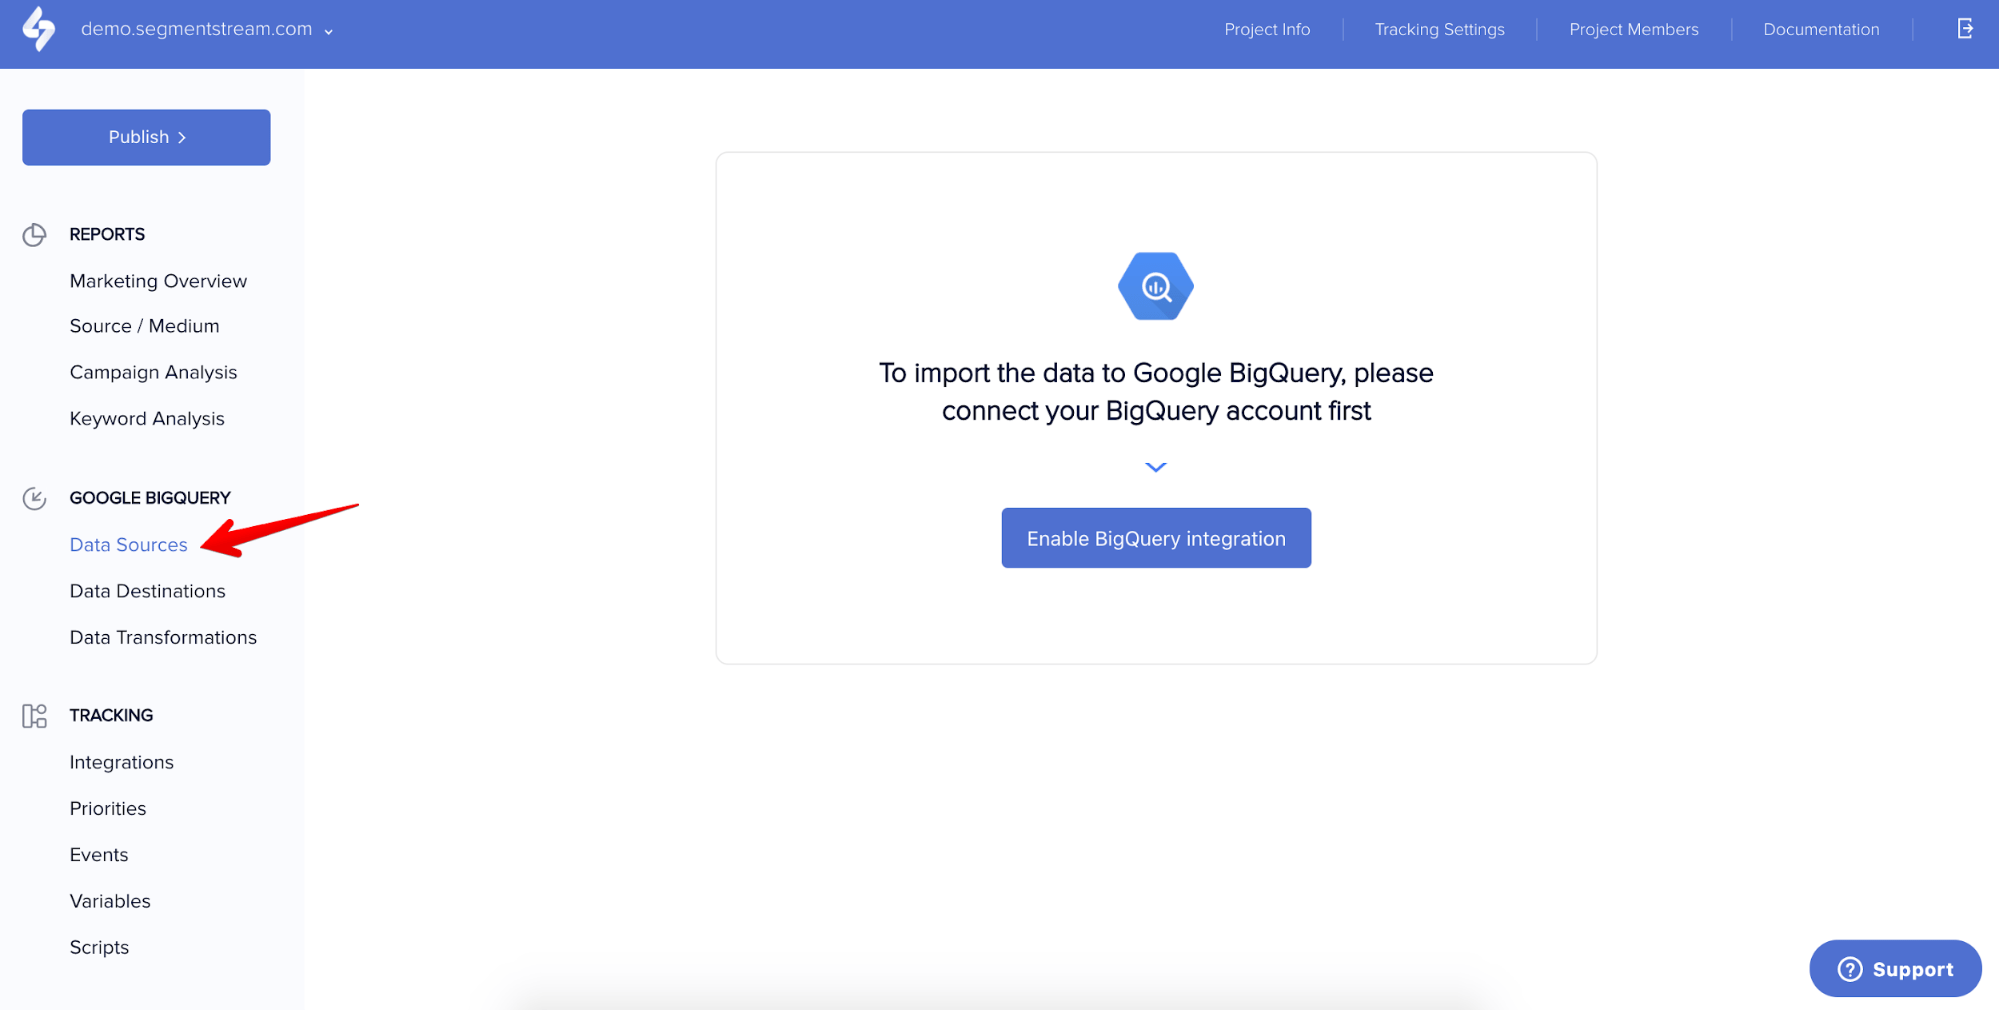
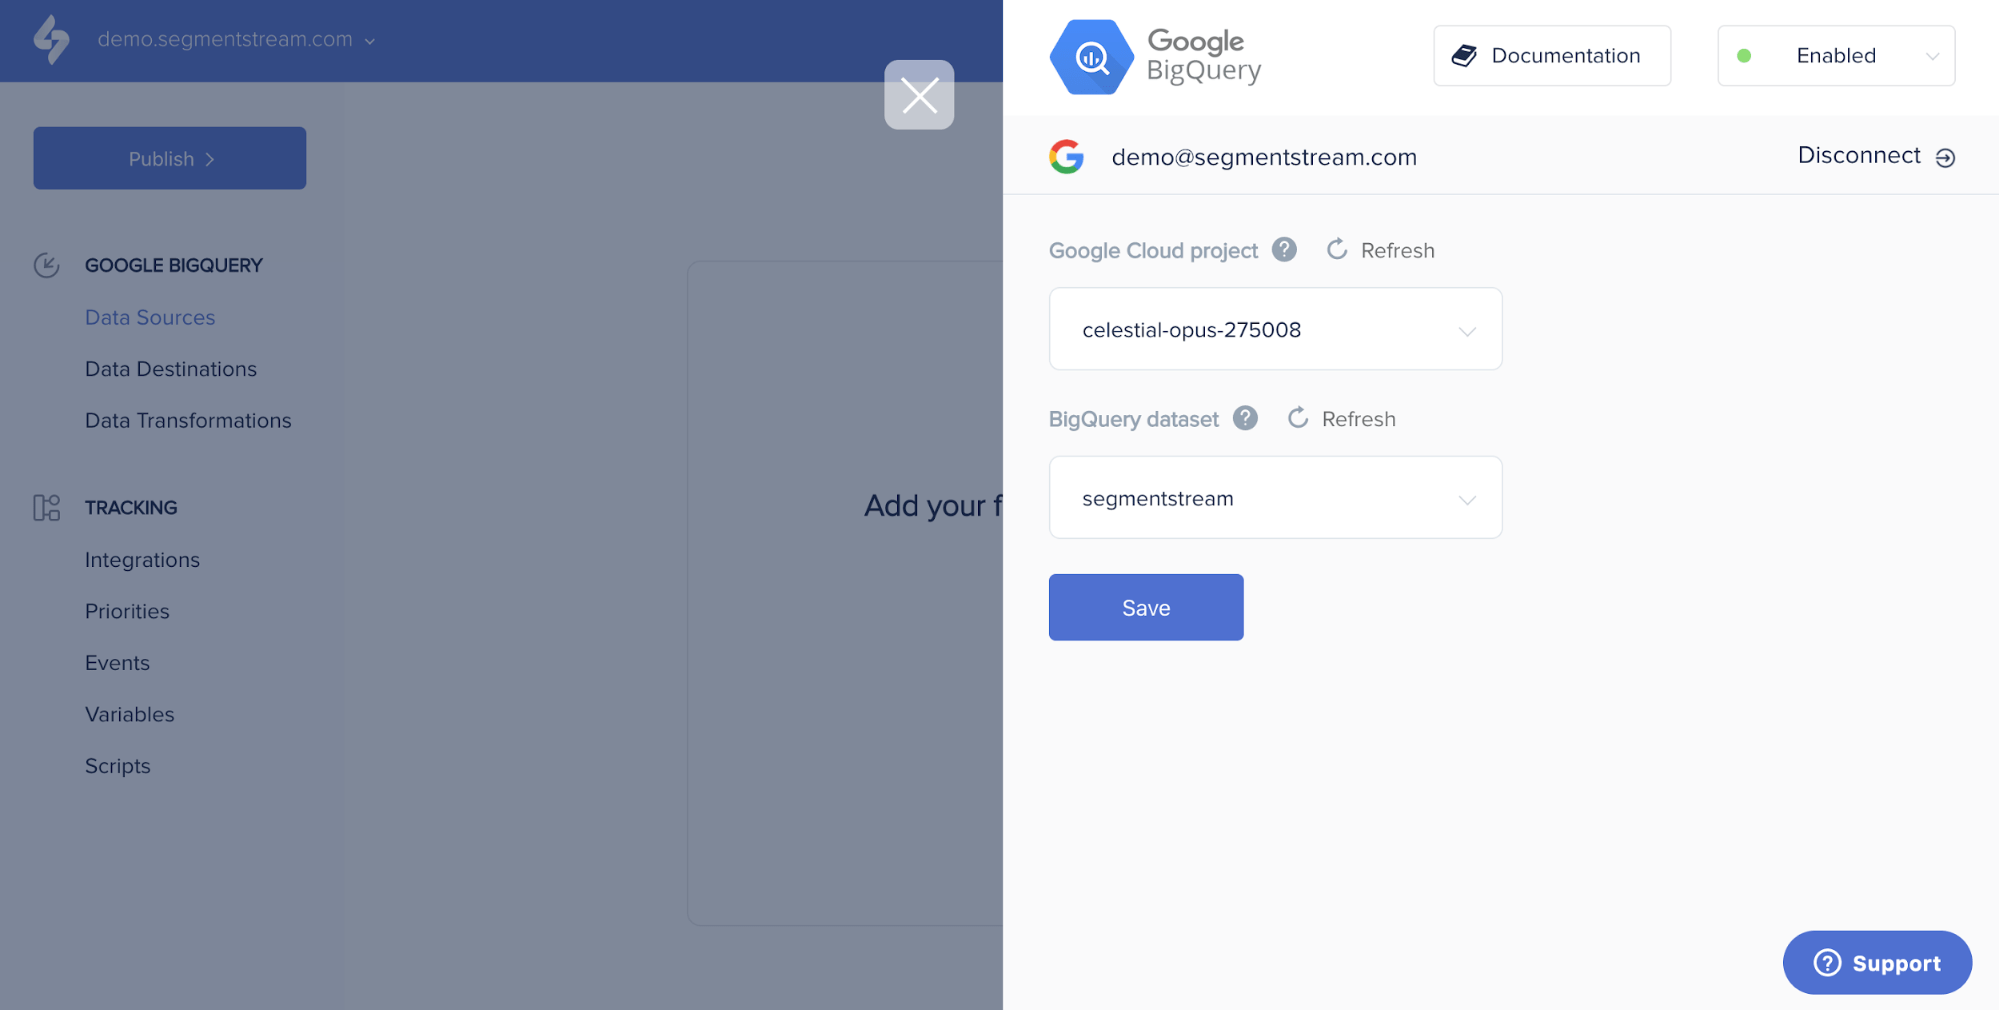
made fixes for bigquery guide

diff --git a/_docs/bigquery/enabling-bigquery-api.md b/_docs/bigquery/enabling-bigquery-api.md
@@ -11,24 +11,30 @@ date: 2020-04-29
 In this article explained how to Enable BigQuery API if it is not enabled
 -->
 <ul class="page-navigation">
-  <li><a href="#enabling-bigquery">Enabling BigQuery API</a></li>
+  <li><a href="#before-you-begin">Before you begin</a></li>
+  <li><a href="#enabling-bigquery">Steps to enable BigQuery API</a></li>
   <li><a href="#whats-next">What's next</a></li>
 </ul>
+
+## <a name="before-you-begin"></a> Before you begin
+* You should have an existing [Google Cloud Platform account](creating-gcp-account).
+* You should have [enabled billing for your GCP account](enabling-billing).
+
 To start working with Google BigQuery firstly, you need to enable BigQuery API.
 Below are the steps that explain how to do this.
 
-## <a name="enabling-bigquery"></a> Enabling BigQuery API
+## <a name="enabling-bigquery"></a> Steps to enable BigQuery API
 1. Go to the [Google Cloud Platform Console](https://console.cloud.google.com/){:target="_blank"}.
-2. Open the console left side menu and click APIs & Services. Select Dashboard from the list.
+2. Open the console left side menu and click **APIs & Services**. Select **Dashboard** from the list.
 ![Click on APIs & Services](/img/bigquery_api.1.png)
 
-3. On the top click + ENABLE APIS AND SERVICES
+3. On the top click **+ ENABLE APIS AND SERVICES**.
 ![Enable APIs and Services](/img/bigquery_api.2.png)
 
-4. Enter "BigQuery" in a search field and select BigQuery API from the list.
+4. Enter "BigQuery" in a search field and select **BigQuery API** from the list.
 ![Select BigQuery API](/img/bigquery_api.3.png)
 
-5. Click ENABLE to enable BigQuery API.
+5. Click **ENABLE** to enable BigQuery API.
 ![Enable BigQuery API](/img/bigquery_api.4.png)
 
 ## <a name="whats-next"></a>What's next

diff --git a/_docs/bigquery/connecting-bigquery.md b/_docs/bigquery/connecting-bigquery.md
@@ -11,14 +11,12 @@ date: 2020-04-29
 In this article we explain how to connect Google BigQuery inside the admin panel
 -->
 Complete the following steps to connect BigQuery to SegmentStream:
-1. Go the [SegmentStream admin page](https://admin.segmentstream.com/).
-2. Choose Data Sources in the navigation column:
+1. Go the [SegmentStream admin panel](https://admin.segmentstream.com/).
+2. Click **Enable BigQuery integration**.
+3. Click **Authenticate with Google** and log in with your Google account that has a Google Cloud Platform account associated with it.
+4. In the **Google Cloud project** dropdown select project that contains the dataset that you want to use with SegmentStream.
+5. In the **BigQuery dataset** dropdown select the dataset that you will use:
 ![](/img/bigquery_connect.1.png)
-3. Click **Enable BigQuery integration** button.
-4. Click **Authenticate with Google** and log in with your Google account that has a Google Cloud Platform account associated with it.
-5. In the **Google Cloud Project** dropdown select project that contains the dataset that you want to use with SegmentStream
-6. In the **BigQuery dataset** dropdown select the dataset that you will use:
-![](/img/bigquery_connect.2.png)
-7. Click **Save**
+6. Click **Save**.
 
 Now you've connected BigQuery to SegmentStream.

diff --git a/_docs/bigquery/creating-gcp-account.md b/_docs/bigquery/creating-gcp-account.md
@@ -21,15 +21,15 @@ BigQuery is a part of Google Cloud Platform.
 To use BigQuery you need to have a Google Cloud Platform account.
 
 ## <a name="before-you-begin"></a> Before you begin
-You should have an existing [Google account](https://support.google.com/accounts/answer/27441)
+You should have an existing [Google account](https://support.google.com/accounts/answer/27441).
 
 ## <a name="creating-gcp-project"></a> Creating Google Cloud Platform account
 1. Navigate to the [Google Cloud Platform page ▸](https://cloud.google.com)
 
-2. Choose “Get started for free”
+2. Choose **Get started for free**.
 ![Click on Get started for free](/img/big-query_start.png)
  
-3. Log in to your Google Account
+3. Log in to your Google Account.
 
 4. Fill in the registration form.
 Provide valid payment details - it’s important, as you need an account with an active payment method to use BigQuery with SegmentStream.

diff --git a/_docs/bigquery/creating-bigquery-dataset.md b/_docs/bigquery/creating-bigquery-dataset.md
@@ -14,8 +14,9 @@ In this article explained how to create Google BigQuery dataset
   <li><a href="#creating-dataset">Creating dataset</a></li>
   <li><a href="#whats-next">What's next</a></li>
 </ul>
-To make Google BigQuery ready for work you need to create a [dataset](https://cloud.google.com/bigquery/docs/datasets-intro){:target="_blank"} which SegmentssStream will use to store imported data.
+To make Google BigQuery ready for work you need to create a [dataset](https://cloud.google.com/bigquery/docs/datasets-intro){:target="_blank"} which SegmentsStream will use to store imported data.
 Below are the steps that explain how to do this.
+
 ## <a name="creating-dataset"></a>Creating dataset
 1. Go to the [Google Cloud Platform Console](https://console.cloud.google.com/){:target="_blank"}.
 2. Open the console left side menu and click **BigQuery**.

diff --git a/_docs/bigquery/enabling-billing.md b/_docs/bigquery/enabling-billing.md
@@ -26,7 +26,7 @@ To use BigQuery with SegmentStream you need an active billing account so that yo
 > Free Tier Google Cloud accounts don’t support some BigQuery services which are required for SegmentStream Data Import.
 
 ## Upgrading Free Tier account
-On the [main page of Google Cloud Platform](https://console.cloud.google.com) in the header click “Activate” and choose “Upgrade” in the pop-up window:
+On the [main page of Google Cloud Platform](https://console.cloud.google.com) in the header click **Activate** and choose **Upgrade** in the pop-up window:
 ![Upgrading BigQuery account](/img/bigquery_billing.1.png)
 More information on upgrading your account can be found [here](https://cloud.google.com/free/docs/gcp-free-tier#how-to-upgrade).
 
